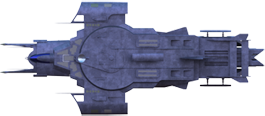
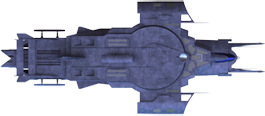
dev/fix: boss can move round

diff --git a/src/js/loaders/bossloader.js b/src/js/loaders/bossloader.js
@@ -13,7 +13,7 @@ export default function () {
                 this.bossWeapon11.fireRate = 100;
                 this.bossWeapon11.fireAngle = 180;
                 this.bossWeapon11.autofire = true;
-                this.bossWeapon11.trackSprite(this.boss, -80, 0, false);
+                this.bossWeapon11.trackSprite(this.boss, 80, 0, true);
                 this.game.physics.enable(this.bossWeapon11, Phaser.Physics.ARCADE);
             }
         }
@@ -25,7 +25,7 @@ export default function () {
                 this.bossWeapon21.fireRate = 100;
                 this.bossWeapon21.fireAngle = 180;
                 this.bossWeapon21.autofire = true;
-                this.bossWeapon21.trackSprite(this.boss, -80, -40, false);
+                this.bossWeapon21.trackSprite(this.boss, 80, -40, true);
                 this.game.physics.enable(this.bossWeapon21, Phaser.Physics.ARCADE);
                 //----------------------------------second gun-----------------------------
                 this.bossWeapon22 = this.game.add.weapon(5, 'bullet');
@@ -33,7 +33,7 @@ export default function () {
                 this.bossWeapon22.fireRate = 100;
                 this.bossWeapon22.fireAngle = 180;
                 this.bossWeapon22.autofire = true;
-                this.bossWeapon22.trackSprite(this.boss, -80, 40, false);
+                this.bossWeapon22.trackSprite(this.boss, 80, 40, true);
                 this.game.physics.enable(this.bossWeapon22, Phaser.Physics.ARCADE);
             }
         }
@@ -55,5 +55,8 @@ export default function () {
                                     100,
                                     true);
     }
-    if(this.boss)this.boss.HPinfo.text = `BOSS HP: ${this.boss.HP}`;
+    if(this.boss){
+        this.boss.HPinfo.text = `BOSS HP: ${this.boss.HP}`;
+        this.boss.rotation = game.physics.arcade.angleBetween(this.boss, this.mainPlayer);
+    }    
 }

diff --git a/src/js/currentGameState.js b/src/js/currentGameState.js
@@ -1,7 +1,7 @@
 export default {
     score: 0,
     levelscore: 0,
-    limit: 10000,
+    limit: 1000,
     bosstime: false,
     bosskilled: false,
     mainPlayerKilled: false,
@@ -11,7 +11,7 @@ export default {
     reset: function() {
         this.score = 0,
         this.levelscore = 0,
-        this.limit = 10000,
+        this.limit = 1000,
         this.bosstime = false,
         this.bosskilled = false,
         this.mainPlayerKilled = false,

diff --git a/src/js/controls/controls.js b/src/js/controls/controls.js
@@ -70,7 +70,7 @@ export function keysOn() {
             }
         }
     }
-    if (this.fireButton.isDown) {
+    if (this.fireButton.isDown && !currentGameState.mainPlayerKilled) {
         if(this.currentWeapon.multiple === false) {
         this.currentWeapon.weapon.fire();
         } else if (this.currentWeapon.multiple === true) {

diff --git a/src/js/objects/benefits.js b/src/js/objects/benefits.js
@@ -8,7 +8,7 @@ export class Benefit extends Phaser.Sprite {
     super(game, x, y, asset);
     this.anchor.setTo(0.5);
     this.outOfBoundsKill = true;
-    this.scale.setTo(0.3);// scale
+    this.scale.setTo(0.4);// scale
     game.physics.enable(this, Phaser.Physics.ARCADE);
     this.events.onOutOfBounds.add(this.out, game);
     }

diff --git a/src/js/config.js b/src/js/config.js
@@ -3,7 +3,7 @@ export default {
     gameHeight: 512,
     enemiesSpeed: 7,
     mainPlayerSpeed: 350,
-    mainPlayerHP: 5,
+    mainPlayerHP: 50,
     firstBossHP: 50,
     shieldDuration: 5000,
     ammoDuration: 5000,
